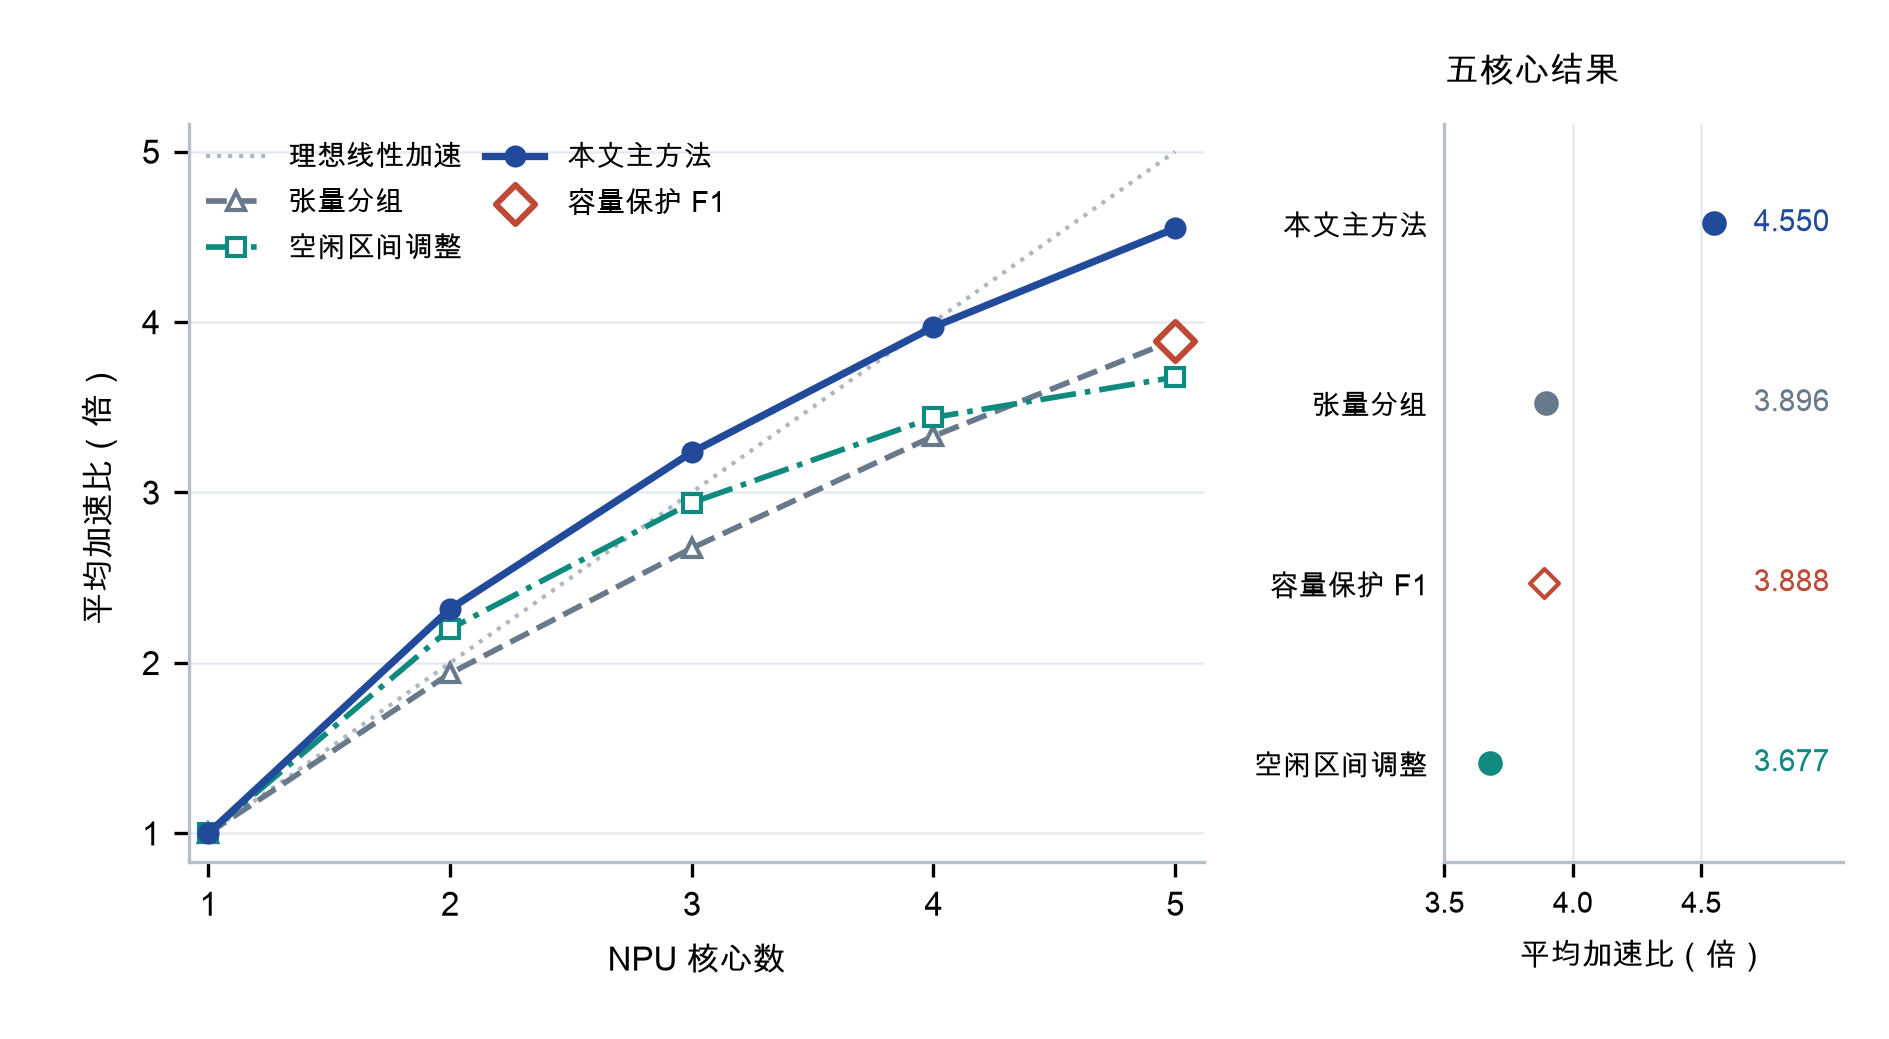
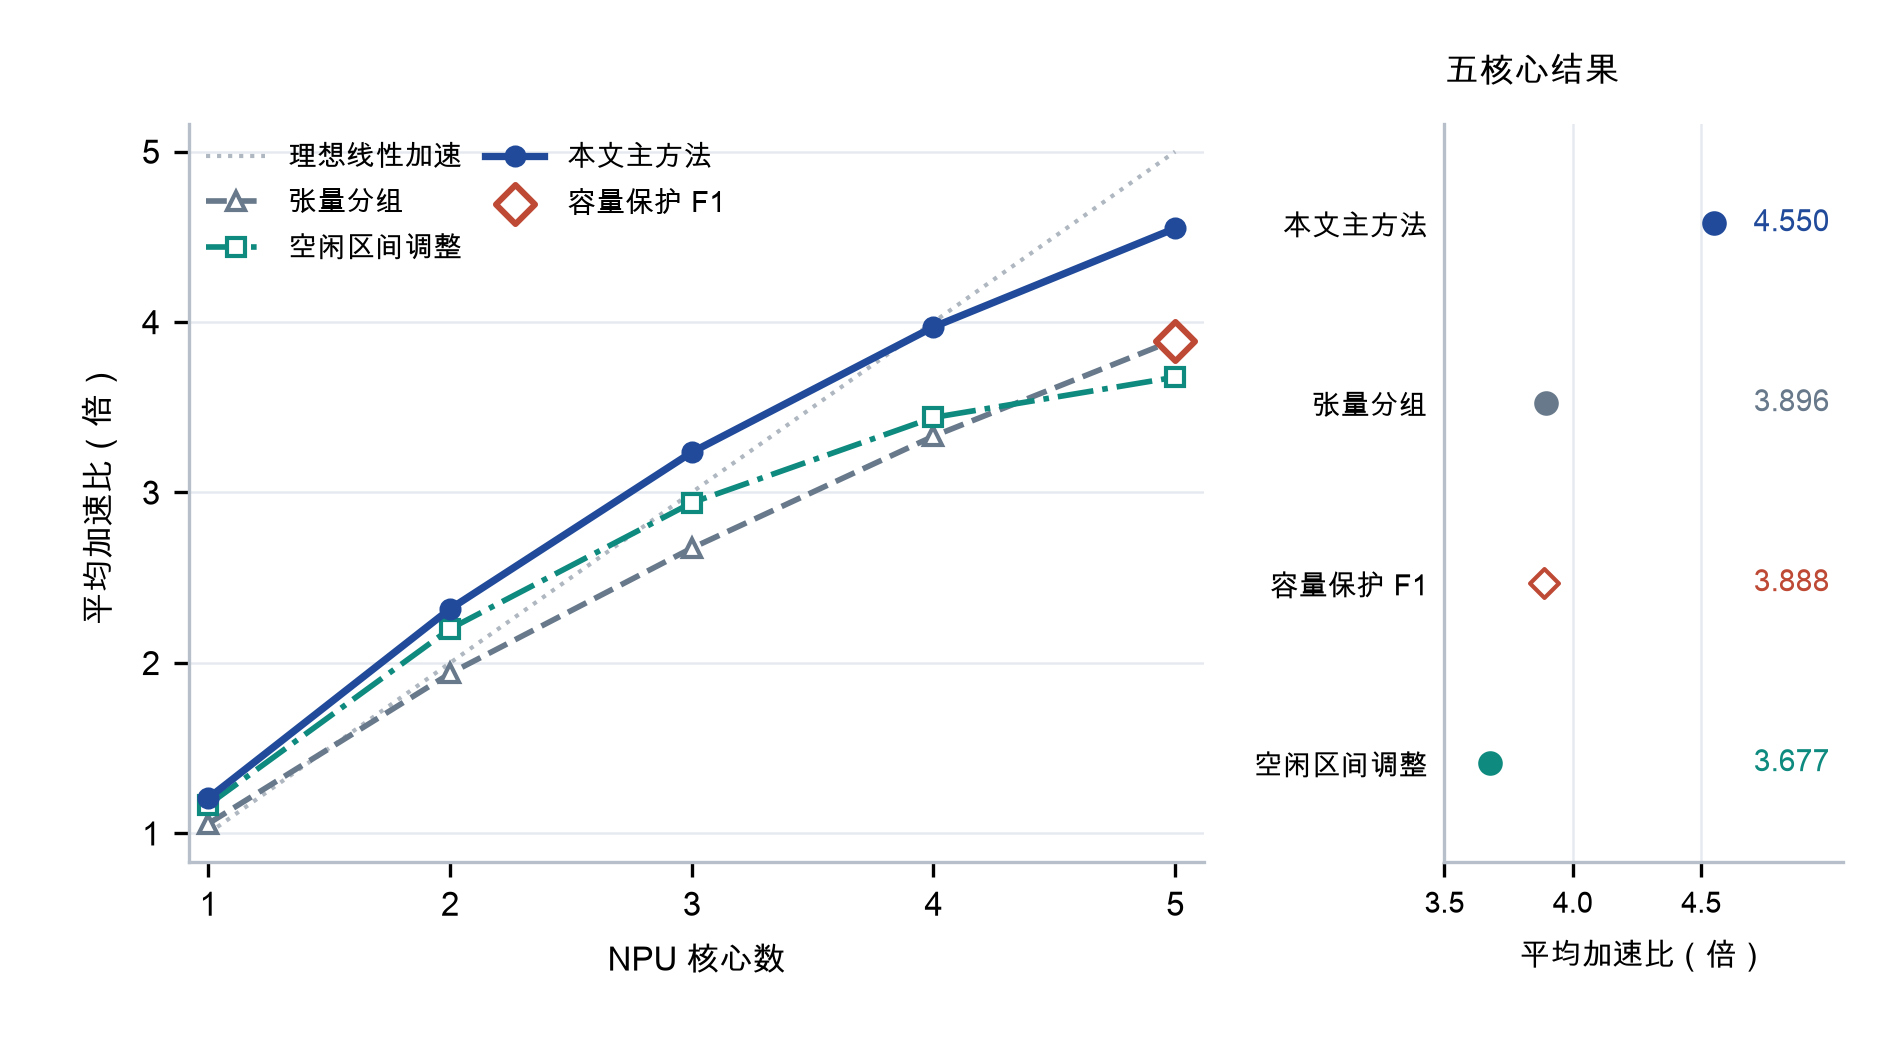
Plot observed one-core speedups in figure 5-3

Changed region(s): [[0.0937, 0.5852, 0.2499, 0.8316], [0.4997, 0.3696, 0.5622, 0.4004], [0.406, 0.4312, 0.4373, 0.462]]

diff --git a/src/analysis/fig53_rework.py b/src/analysis/fig53_rework.py
@@ -151,9 +151,9 @@ def summarize(records: list[dict], specs: dict) -> list[dict]:
                 "method": method,
                 "cores": cores,
                 "n": len(values),
-                "mean_speedup": 1.0 if cores == 1 else observed,
+                "mean_speedup": observed,
                 "mean_observed_speedup": observed,
-                "display_policy": "reference_anchor" if cores == 1 else "observed_mean",
+                "display_policy": "observed_mean",
             }
         )
     assert len(summary) == 16

diff --git a/figures/a/fig53-captain-rework-20260927/README.md b/figures/a/fig53-captain-rework-20260927/README.md
@@ -6,9 +6,9 @@
 
 四组输入均在交接 ZIP 中，逐项哈希由 `MANIFEST.sha256.json` 约束。`tensor`、`gap` 各有 100 张图 × 1–5 核共 500 个有效坐标，`F1` 只有五核心的 100 个有效坐标；这三组的结果表来自固定提交 `178a3673bd238b20772211427b8134b6db35f5af`。`c665` 的 500 个官方评价结果来自固定提交 `1c00079aadbd071de62db17686d5ba3fed1da0f2`，求解器为 `c66559a6f8a31ef7b4720e1f7c3c28d61f8dff3f`。各方法的完整求解器提交见 `validation.json`，没有逐格拼接历史最优。
 
-每个坐标先以同一张图的官方情况 A 单核心完成时间 `B_i` 除以该方法在对应核心数下的官方完成时间 `M_{i,k}`，再对 100 张图的比值作算术平均。共同 `B_i` 取交接包内已核的成员结果表，不使用 `c665` 汇总中表示前一优化版本的 `row.baseline`。`per_case_speedup.csv` 保留真实逐图比值；`method_core_summary.csv` 的 `mean_observed_speedup` 保留实际单核均值。按本图任务书，曲线在一核心处仅显示统一参考起点 `1`，该行的 `display_policy=reference_anchor`，不是改写实际结果。
+每个坐标先以同一张图的官方情况 A 单核心完成时间 `B_i` 除以该方法在对应核心数下的官方完成时间 `M_{i,k}`，再对 100 张图的比值作算术平均。共同 `B_i` 取交接包内已核的成员结果表，不使用 `c665` 汇总中表示前一优化版本的 `row.baseline`。`per_case_speedup.csv` 保留真实逐图比值；`method_core_summary.csv` 的 `mean_speedup` 与 `mean_observed_speedup` 均为实际观测均值。三条曲线在一核心处分别采用 1.056973、1.167562、1.206139，而非统一设为 1；理想线性加速线独立表示一核心为 1 的参照。由于分母是共同的官方情况 A 单核心基线，各方法优化后的单核心结果可以优于该基线。
 
-左侧展示三种全覆盖方法的 1–5 核曲线与 F1 五核心独立点。右侧把同一组五核心数值按方法分行列出，专门区分相差仅约 0.008 的 `tensor` 和 `F1`。图内不放整图标题和长篇解释；适用条件、单核显示规则及方法定义放在 `caption.md`，由 LaTeX 图注和邻近正文排版。图号“5-3”是工作台交付编号，正式稿位置由合稿核定。
+左侧展示三种全覆盖方法的 1–5 核真实观测曲线与 F1 五核心独立点。右侧把同一组五核心数值按方法分行列出，专门区分相差仅约 0.008 的 `tensor` 和 `F1`。图内不放整图标题和长篇解释；适用条件、一核心口径及方法定义放在 `caption.md`，由 LaTeX 图注和邻近正文排版。图号“5-3”是工作台交付编号，正式稿位置由合稿核定。
 
 ## 从固定提交重新生成
 
@@ -25,7 +25,7 @@ uv run --locked python src/analysis/fig53_rework.py --figure 5-3
 
 - `fig53_p2_speedup.pdf` / `.svg` / `.png`：同次绘制的矢量图与预览。
 - `per_case_speedup.csv`：1,600 行，字段为 `case,cores,method,baseline,makespan,speedup,source_commit,result_sha256`，其中 `F1` 只含五核心。
-- `method_core_summary.csv`：16 行，各方法和核心数的样本数、显示均值、真实观测均值和显示规则。
+- `method_core_summary.csv`：16 行，各方法和核心数的样本数、真实观测均值及显示规则；保留原有字段以便逐版核对。
 - `caption.md`：给论文监督会话的图题、图注与邻近正文建议。
 - `validation.json` / `manifest.json` / `audit.json` / `self-check.md`：覆盖、来源、最终文件哈希与 F53-R01～R05 的逐项证据。
 

diff --git a/figures/a/fig53-captain-rework-20260927/self-check.md b/figures/a/fig53-captain-rework-20260927/self-check.md
@@ -1,7 +1,7 @@
 # 图 5-3 修改自查
 
 - **F53-R01 方法与覆盖**：`tensor`、`gap`、`c665` 各 500 个唯一的计算图/核心数坐标，每核 100 张；`F1` 仅五核心 100 张。右侧五核心数值来自左侧同一批结果。未加入缺测值，也未拼接不同版本逐格最优。
-- **F53-R02 共同分母**：对每张计算图，三个成员表的官方情况 A 单核心分母及基线收据一致；`c665` 使用该共同分母而非前一优化版本的 `row.baseline`。用例 002 分母为 261945 周期。单核真实平均值保留在汇总表，曲线一核心的 1 明确标为显示参照。
+- **F53-R02 共同分母**：对每张计算图，三个成员表的官方情况 A 单核心分母及基线收据一致；`c665` 使用该共同分母而非前一优化版本的 `row.baseline`。用例 002 分母为 261945 周期。三种方法的一核心真实平均值都画在曲线上，分别为 1.056973、1.167562、1.206139；灰色理想线的一核心值 1 仅为参照。
 - **F53-R03 规范数据表**：长表 1,600 行，具有 `case,cores,method,baseline,makespan,speedup`；`F1` 字段精确为 `F1`。汇总表 16 行，具有 `method,cores,n,mean_speedup,mean_observed_speedup,display_policy`，没有用 0 补齐缺测。
 - **F53-R04 单图重现**：实际执行 `uv run --locked python src/analysis/fig53_rework.py --figure 5-3`，只读固定交接 ZIP；源码、输入和命令都在当前提交，不依赖未提交的本机输入，没有运行整套绘图或任何求解/评价程序。
 - **F53-R05 最终字节**：`manifest.json` 列出最终图、表、图注、说明和检查文件的实际 SHA-256；`audit.json` 再核对清单、源码与交接 ZIP，自身不作循环哈希。发布后还须按远端 Git 对象逐项回读，不能仅凭本机检查宣布远端通过。

diff --git a/tasks/a/FIG53-CAPTAIN-REWORK.md b/tasks/a/FIG53-CAPTAIN-REWORK.md
@@ -9,7 +9,7 @@
 1. **任务目标**：从 Fang 实际交接的半成品改出科学口径正确、160 mm 纸面可读的多方法平均加速比图，逐项关闭 F53-R01～R05。
 2. **输入文件**：固定提交 `6ac4ec28582212c9fab967ceab5e09e796dbadba` 中的 `deliverables/a/fig53-captain-handoff-20260927/fig5-3-captain-rework-e5b785c.zip`；其中三份成员结果表和一份 `c665` 汇总的来源、单位及 SHA-256 见同目录清单。100 张官方计算图为相同用例集合，`F1` 仅五核心完整。
 3. **输出要求**：`src/analysis/fig53_rework.py`、`figures/a/fig53-captain-rework-20260927/` 内的 PDF/SVG/PNG、逐图长表、方法汇总表、图注、来源和字节哈希清单，命令 `uv run --locked python src/analysis/fig53_rework.py --figure 5-3`。
-4. **限制条件**：固定既有结果，不运行求解器、E0/E1/E2，不修改冻结 v8；展示一核心参照点时保留真实单核观测值；F1 不补造其他核心数结果。使用仓库锁定依赖及已安装中文字体，设计宽度 160 mm。
+4. **限制条件**：固定既有结果，不运行求解器、E0/E1/E2，不修改冻结 v8；所有方法的一核心点直接画真实观测均值，理想线另作参照；F1 不补造其他核心数结果。使用仓库锁定依赖及已安装中文字体，设计宽度 160 mm。
 5. **验收标准**：三完整方法各 500 唯一格，F1 五核心 100 格；官方情况 A 单核共同分母；逐图比值再算术平均；指定参考均值相符；规范 CSV、单图重现、输出哈希与实际图面检查通过；论文监督会话和用户最终验收另行记录。
 6. **截止时间**：本轮交接后尽快交付，具体时间由队长与论文监督会话按合稿进度确认（亚洲台北时间）。
 

diff --git a/figures/a/fig53-captain-rework-20260927/publication-readback.md b/figures/a/fig53-captain-rework-20260927/publication-readback.md
@@ -1,9 +1,9 @@
 # 图 5-3 发布后回读
 
-图与脚本发布于固定提交 `7d1bf1e4718596f428696ed4f4b12015003f59ca`，Draft PR [#231](https://github.com/huaweibei123/huaweicup2026/pull/231)。2026-09-27 使用 GitHub 内容接口，按该完整提交读取 `audit.json` 所列 10 件文件及绘图脚本，共 11 件；逐件解码远端内容并核对 SHA-256，全部一致。
+初版图与脚本发布于固定提交 `7d1bf1e4718596f428696ed4f4b12015003f59ca`，Draft PR [#231](https://github.com/huaweibei123/huaweicup2026/pull/231)。2026-09-27 使用 GitHub 内容接口，按该完整提交读取 `audit.json` 所列 10 件文件及绘图脚本，共 11 件；逐件解码远端内容并核对 SHA-256，全部一致。**这份回读只证明初版远端字节相符，不证明初版科学表达正确。**随后论文监督会话指出一核心处不应强置为 1，图件已经按真实观测值重画；下列旧哈希只用于历史追溯。
 
[3 lines of base64/hex data omitted]
 
-本收据形成于图件固定提交之后，不列入该提交的 `manifest.json`，不改变已核图像、数据和脚本字节。原 `self-check.md` 中“发布后还须回读”是生成图件时的待办；本次已完成。远端文件一致不等于论文整页排版、科学解释或用户最终验收通过。
+本收据形成于初版图件固定提交之后，不列入该提交的 `manifest.json`。新版还须在发布后独立核对远端图件与脚本。远端文件一致不等于论文整页排版、科学解释或用户最终验收通过。

diff --git a/figures/a/fig53-captain-rework-20260927/caption.md b/figures/a/fig53-captain-rework-20260927/caption.md
@@ -8,4 +8,4 @@
 
 # 应置于邻近正文的显示说明
 
-按本图的统一参照规则，三条曲线在一核心处都从 1 开始；这个点是**显示用参照起点**，不代表三种优化后方案的一核心真实结果。使用相同官方单核心分母计算的真实平均比值依次为：张量分组 1.056973、空闲区间构造 1.167562、本文主方法 1.206139。逐图真实比值和汇总值分别保存在 `per_case_speedup.csv` 与 `method_core_summary.csv`。四组结果属于不同固定算法版本的比较，不能解释为只改变一个模块的消融实验。最终图号、图注编号和论文页码由 LaTeX 按实际合稿生成。
+三条曲线在一核心处画的也是实际观测均值：张量分组 1.056973、空闲区间构造 1.167562、本文主方法 1.206139。它们可以超过 1，因为分母统一取官方情况 A 的单核心完成时间，而各方法的一核心方案仍可能降低完成时间。图中的灰色理想线性加速线在一核心处为 1，仅用于参照。逐图真实比值和汇总值分别保存在 `per_case_speedup.csv` 与 `method_core_summary.csv`。四组结果属于不同固定算法版本的比较，不能解释为只改变一个模块的消融实验。最终图号、图注编号和论文页码由 LaTeX 按实际合稿生成。
